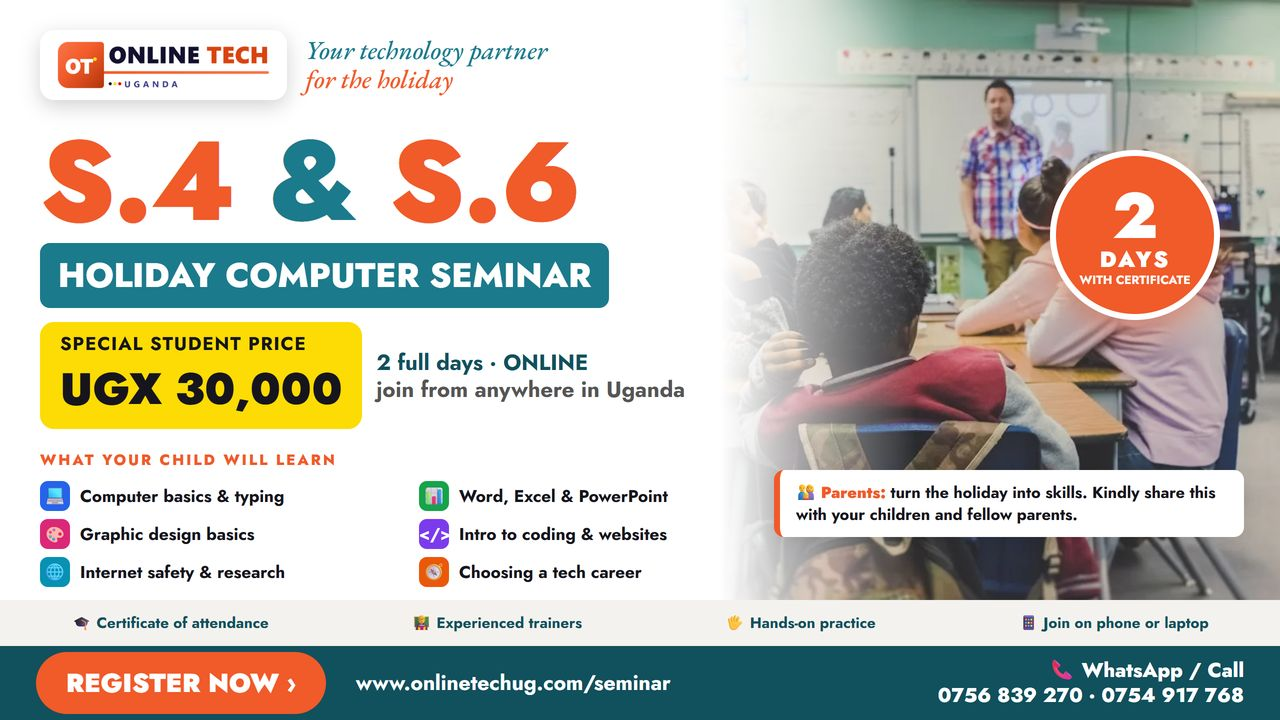
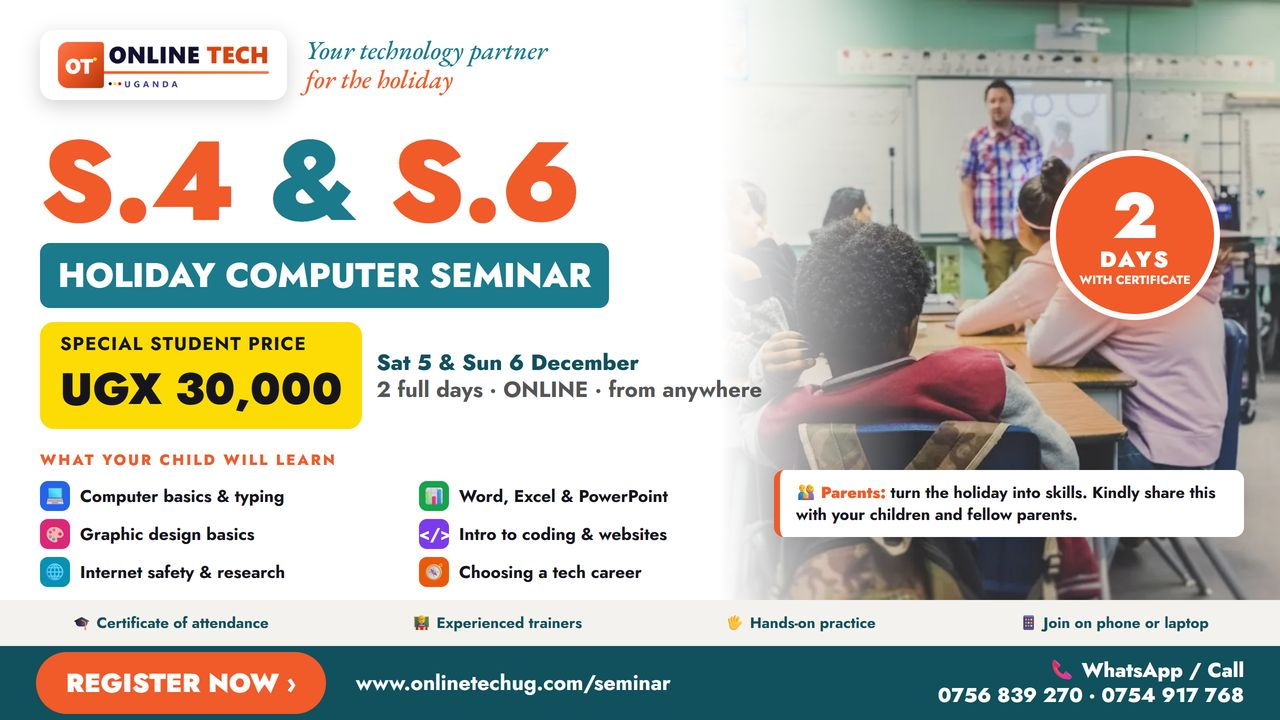
Seminar dates: Saturday 5 and Sunday 6 December 2026

Changed region(s): [[0.2812, 0.4889, 0.5938, 0.55]]

diff --git a/apps/web/src/app/seminar/page.tsx b/apps/web/src/app/seminar/page.tsx
@@ -29,7 +29,7 @@ export default function SeminarPage() {
         crumbs={[{ label: "S.4 & S.6 Seminar" }]}
         eyebrow="Make the holiday count"
         title="S.4 & S.6 Holiday Computer Seminar"
-        subtitle="Two full days, online, for Senior Four and Senior Six leavers. Special student price: UGX 30,000, with a certificate of attendance."
+        subtitle="Saturday 5 and Sunday 6 December 2026 — two full days, online, for Senior Four and Senior Six leavers. Special student price: UGX 30,000, with a certificate of attendance."
         image="/web/photo-1509062522246-3755977927d7.webp"
       >
         <a href="#register" className="bg-white px-7 py-3.5 text-[12px] font-semibold uppercase tracking-[0.16em] text-ink-900 transition hover:bg-brand-500 hover:text-white">
@@ -54,7 +54,7 @@ export default function SeminarPage() {
           <div className="mt-8 grid gap-3 sm:grid-cols-3">
             {[
               ["UGX 30,000", "special student price, for both days"],
-              ["2 days", "online, join on a phone or laptop"],
+              ["Sat 5 & Sun 6 Dec", "two days, online, on a phone or laptop"],
               ["Certificate", "of attendance for every student"],
             ].map(([big, small]) => (
               <div key={big} className="rounded-md bg-[#fcdc04] p-4 text-ink-900">
@@ -71,7 +71,7 @@ export default function SeminarPage() {
               expects. Kindly register your child, and share this page with fellow parents so their children can join too.
             </p>
             <a
-              href={whatsappLink("Hello! Online Tech Uganda is running a 2-day online computer seminar for S.4 and S.6 leavers, UGX 30,000. Details and registration: https://www.onlinetechug.com/seminar")}
+              href={whatsappLink("Hello! Online Tech Uganda is running a 2-day online computer seminar for S.4 and S.6 leavers on Saturday 5 and Sunday 6 December, UGX 30,000. Details and registration: https://www.onlinetechug.com/seminar")}
               target="_blank"
               rel="noreferrer"
               className="mt-3 inline-flex items-center gap-2 rounded-full bg-[#25D366] px-4 py-2 text-[13px] font-bold text-white"

diff --git a/apps/web/src/components/seminar-form.tsx b/apps/web/src/components/seminar-form.tsx
@@ -55,7 +55,7 @@ export function SeminarForm() {
       <div className="rounded-md bg-white p-6 shadow-sm">
         <p className="text-[22px] font-semibold text-ink-900">✅ Registration received</p>
         <p className="mt-2 text-[15px] text-ink-700/85">
-          Thank you. We will call or WhatsApp you with the seminar dates, the joining link and how to pay the UGX 30,000.
+          Thank you. We will call or WhatsApp you with the joining link for Saturday 5 and Sunday 6 December, and how to pay the UGX 30,000.
         </p>
         <a
           href={whatsappLink(`Hello Online Tech Uganda, I have registered for the S.4 & S.6 Holiday Seminar.\n\n${summary}`)}
@@ -71,7 +71,7 @@ export function SeminarForm() {
   return (
     <form onSubmit={submit} className="rounded-md bg-white p-6 shadow-sm">
       <p className="text-[24px] font-semibold text-ink-900">Register a student</p>
-      <p className="mt-1 text-[14px] text-ink-700/75">Parents may register for their children. We confirm the dates and how to pay.</p>
+      <p className="mt-1 text-[14px] text-ink-700/75">Parents may register for their children. Saturday 5 &amp; Sunday 6 December, online. We confirm how to pay.</p>
       <p className="mt-2 text-[14px] font-semibold text-ink-900">📞 Call or WhatsApp: <a href="tel:+256756839270" className="text-brand-600">0756 839 270</a> · <a href="tel:+256754917768" className="text-brand-600">0754 917 768</a></p>
       <div className="mt-4 grid gap-3">
         <label className="text-[14px] font-semibold text-ink-800">Student&apos;s full name<input name="student" required minLength={2} className={input} /></label>

diff --git a/apps/web/src/components/festival-strip.tsx b/apps/web/src/components/festival-strip.tsx
@@ -39,7 +39,7 @@ const FALLBACK: Strip[] = [
   // Industrial training, aimed squarely at the universities. Software first,
   // because that is most of what an intern here actually does.
   { text: "ONLINE industrial training — UGX 150,000, 1 Nov to 18 Dec", cta: "Apply now", href: "/internship", bg: "bg-brand-500", img: "/courses/python-programming.webp" },
-  { text: "S.4 & S.6 leavers — 2-day online computer seminar, UGX 30,000", cta: "Register", href: "/seminar", bg: "bg-brand-600", img: "/courses/computer-basics.webp" },
+  { text: "S.4 & S.6 leavers — online computer seminar, Sat 5 & Sun 6 Dec, UGX 30,000", cta: "Register", href: "/seminar", bg: "bg-brand-600", img: "/courses/computer-basics.webp" },
   { text: "KIU students — your Nov–Dec internship, online, starts 2 Nov", cta: "Apply now", href: "/apply", bg: "bg-green-700", img: "/courses/web-development.webp" },
   { text: "Makerere · Kyambogo · MUBS · UCU · Ndejje — online internships from 1 Nov", cta: "See placements", href: "/internship", bg: "bg-green-700", img: "/courses/web-development.webp" },
   { text: "Intern on real client software from home — websites, systems, databases", cta: "Apply for a place", href: "/internship", bg: "bg-brand-700", img: "/courses/computer-networking.webp" },
